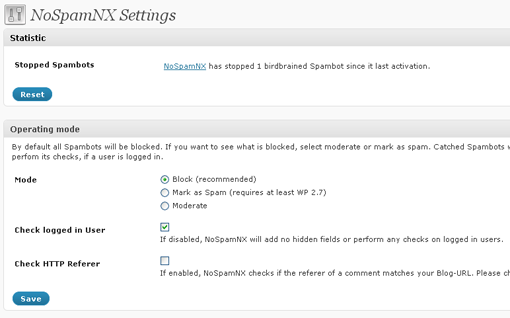
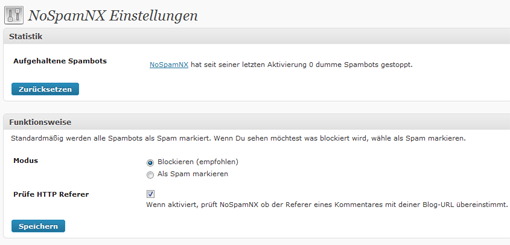
git-svn-id: https://plugins.svn.wordpress.org/nospamnx/trunk@187620 b8457f37-d9ea-0310-8a92-e5e31aec5664

diff --git a/nospamnx.css b/nospamnx.css
@@ -1,1 +1,2 @@
+.locktross  {display:none;}
 .lotsensurrt {display:none;}

diff --git a/nospamnx.php b/nospamnx.php
@@ -3,7 +3,7 @@
 Plugin Name: NoSpamNX
 Plugin URI: http://www.svenkubiak.de/nospamnx-en
 Description: To protect your Blog from automated spambots, which fill you comments with junk, this plugin adds additional formfields (hidden to human-users) to your comment form. These Fields are checked every time a new comment is posted. 
-Version: 3.2
+Version: 3.3
 Author: Sven Kubiak
 Author URI: http://www.svenkubiak.de
 
@@ -220,10 +220,10 @@ if (!class_exists('NoSpamNX'))
 					break;
 					default:
 						$this->nospamnx_operate = 'block';		
-				}
-				
-				//do we have to check logged in users?
-				($_POST['nospamnx_checkreferer'] == 1) ? $this->nospamnx_checkreferer = 1 : $this->nospamnx_checkreferer = 0;			
+				}	
+
+				//do we have to check the http referer?
+				($_POST['nospamnx_checkreferer'] == 1) ? $this->nospamnx_checkreferer = 1 : $this->nospamnx_checkreferer = 0;	
 				
 				//save options and display success message
 				$this->setOptions();
@@ -273,9 +273,6 @@ if (!class_exists('NoSpamNX'))
 				case 'mark':
 					$mark = 'checked';
 				break;	
-				case 'moderate':
-					$moderate = 'checked';
-				break;
 				default:
 					$block = 'checked';
 			}
